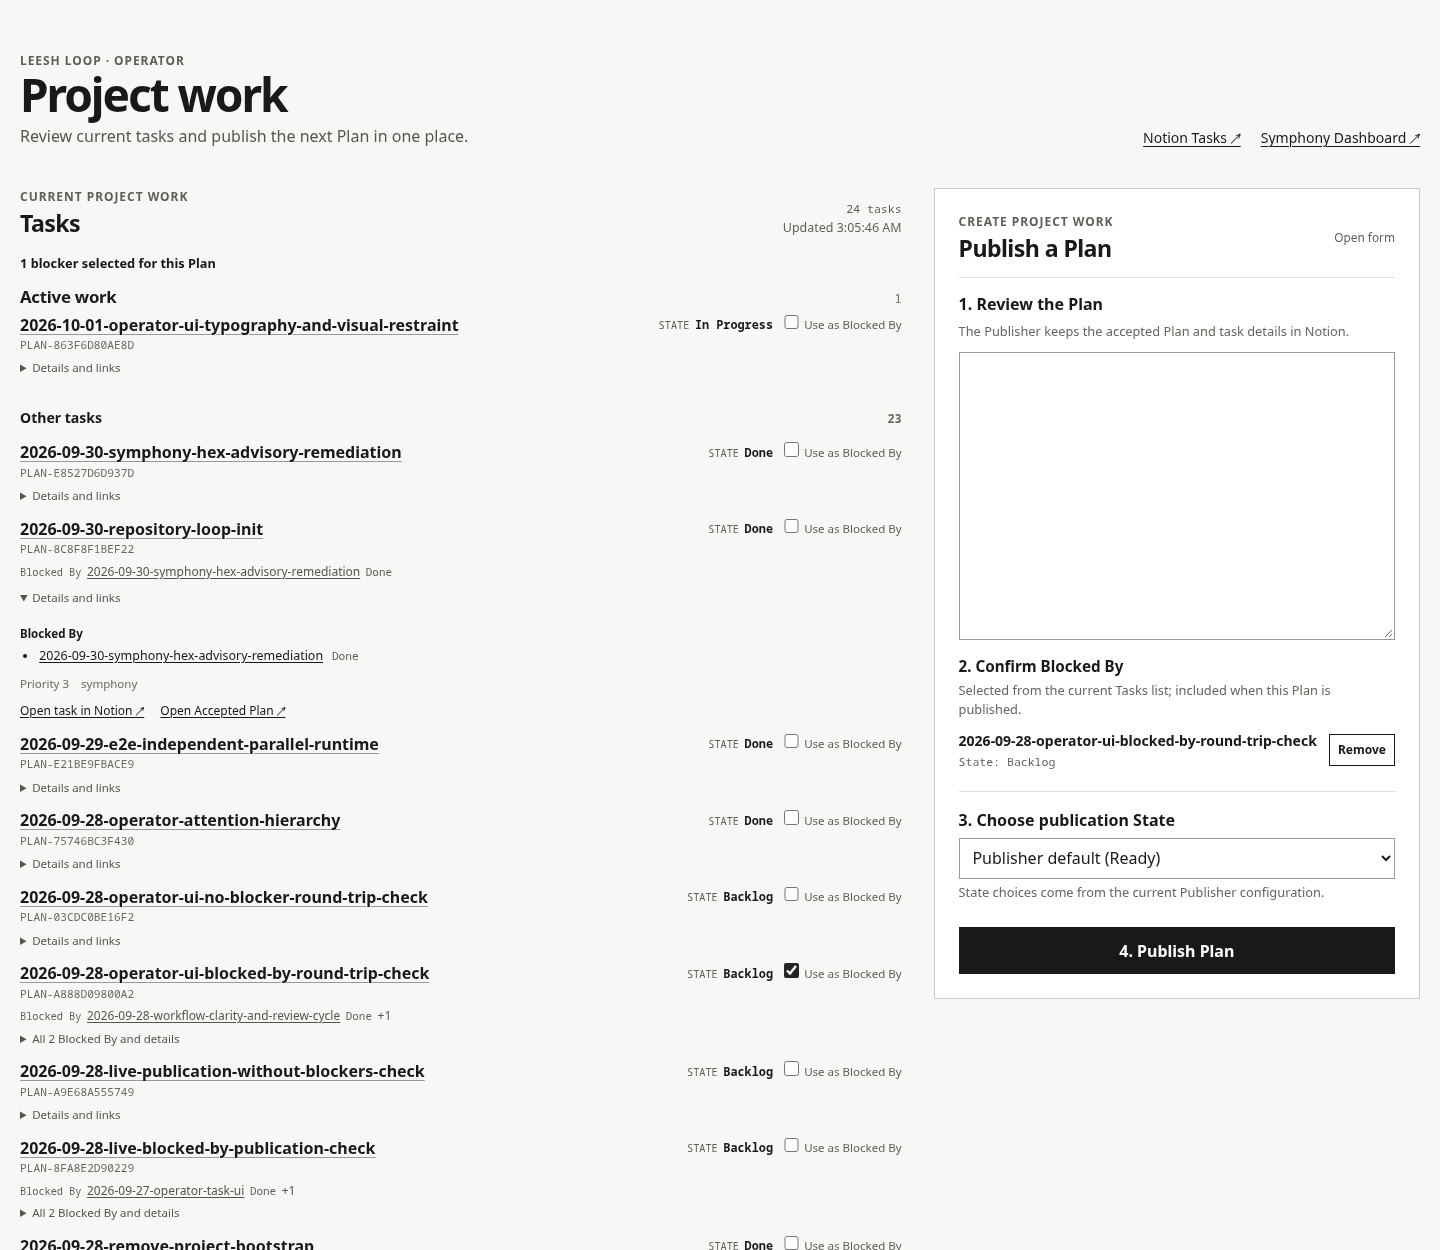
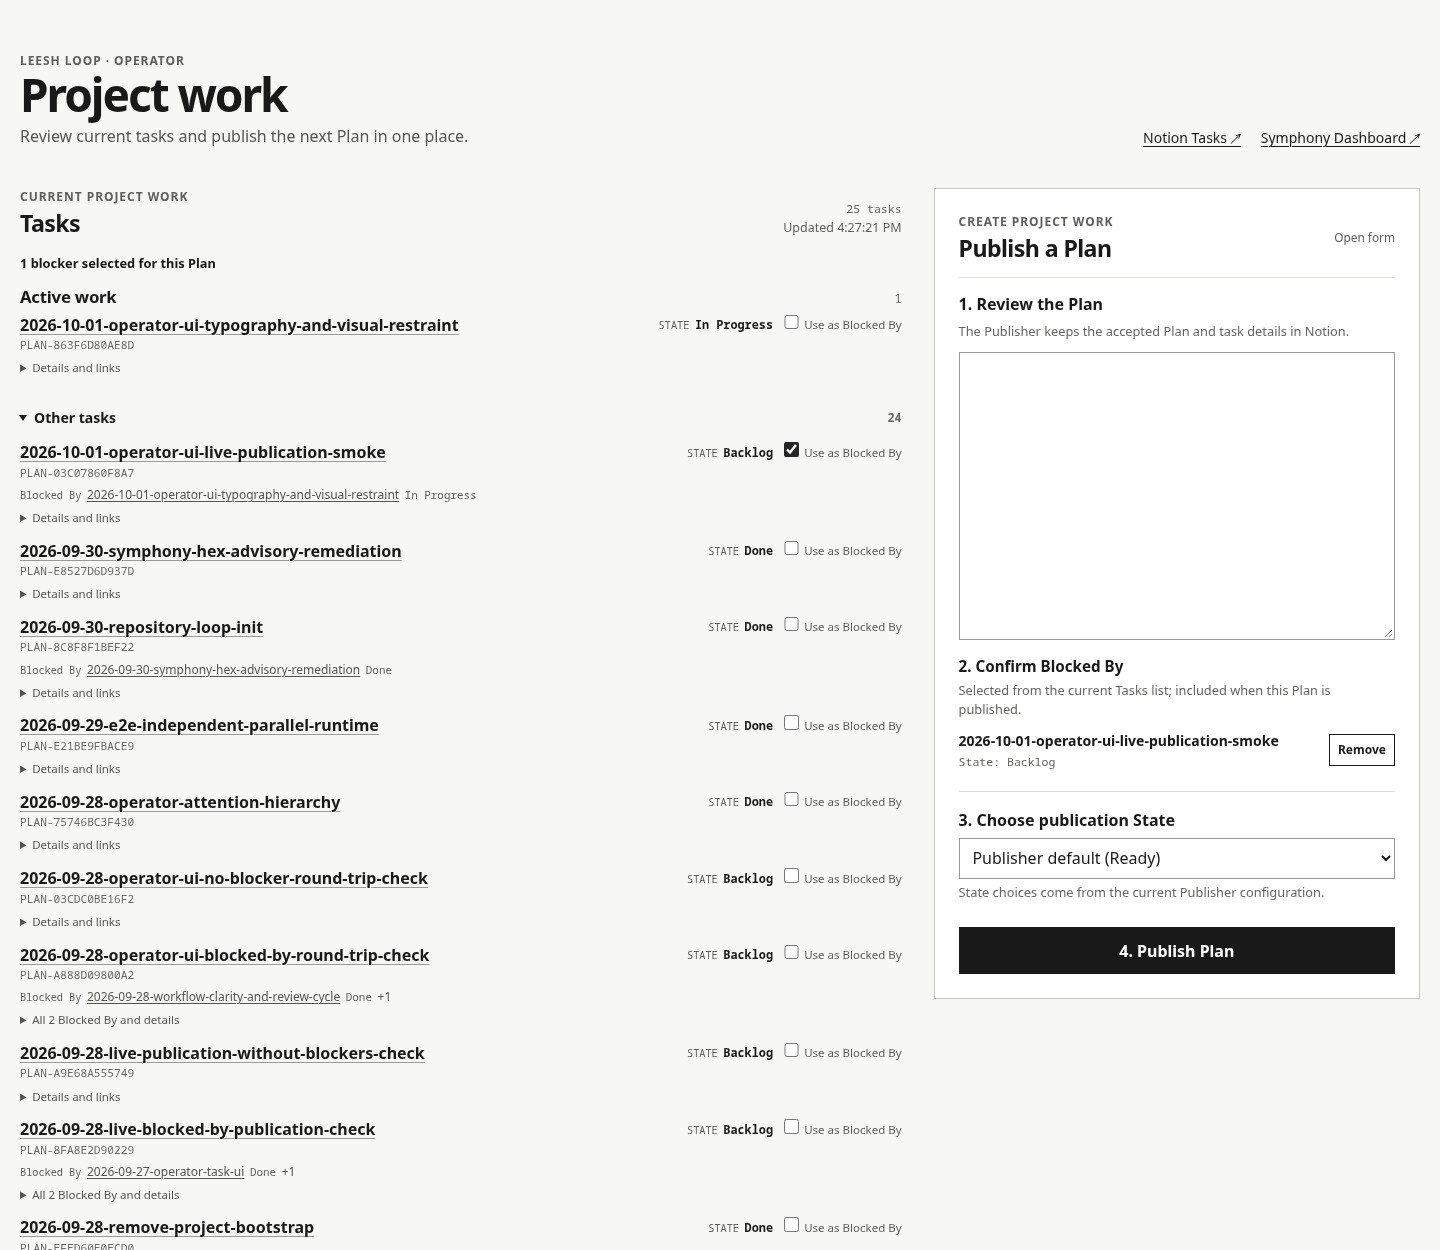
Show collapsed task disclosure affordance

diff --git a/operator/ui/src/main.jsx b/operator/ui/src/main.jsx
@@ -120,7 +120,7 @@ function TaskSurface({ tasks, selectedBlockers, selectionDisabled, loading, erro
           {groups.humanReview.length > 0 && taskGroup('Needs your review', groups.humanReview, 'review-work')}
           {groups.activeWork.length > 0 && taskGroup('Active work', groups.activeWork, 'active-work')}
           <details className="remaining-tasks">
-            <summary><span>Other tasks</span><span className="task-group-count" aria-label={`${otherCount} tasks`}>{otherCount}</span></summary>
+            <summary><span className="remaining-tasks-label"><span className="disclosure-indicator" aria-hidden="true" />Other tasks</span><span className="task-group-count" aria-label={`${otherCount} tasks`}>{otherCount}</span></summary>
             {groups.remainingTasks.length ? (
               <div className="task-list">
                 {groups.remainingTasks.map(task => <TaskCard key={task.taskId || task.taskUrl} task={task} selected={selectedIds.has(task.taskId)} selectionDisabled={selectionDisabled} onToggle={onToggleBlocker} />)}

diff --git a/operator/ui/src/style.css b/operator/ui/src/style.css
@@ -69,6 +69,9 @@ h2 { margin-bottom: 0; font-size: 1.45rem; line-height: 1.2; letter-spacing: -.0
 .group-empty { margin: 0; color: #666660; font-size: .78rem; }
 .remaining-tasks { margin-top: .25rem; }
 .remaining-tasks > summary { display: flex; align-items: baseline; justify-content: space-between; gap: .75rem; padding: .4rem 0; font-size: .88rem; font-weight: 650; cursor: pointer; }
+.remaining-tasks-label { display: flex; align-items: center; gap: .5rem; }
+.disclosure-indicator { width: 0; height: 0; flex: 0 0 auto; border-top: .28rem solid transparent; border-bottom: .28rem solid transparent; border-left: .4rem solid currentColor; }
+.remaining-tasks[open] .disclosure-indicator { transform: rotate(90deg); }
 .remaining-tasks[open] > summary { margin-bottom: .5rem; }
 .remaining-tasks > .task-list { padding-bottom: .2rem; }
 .remaining-tasks > .group-empty { padding: 0 0 .5rem; }
